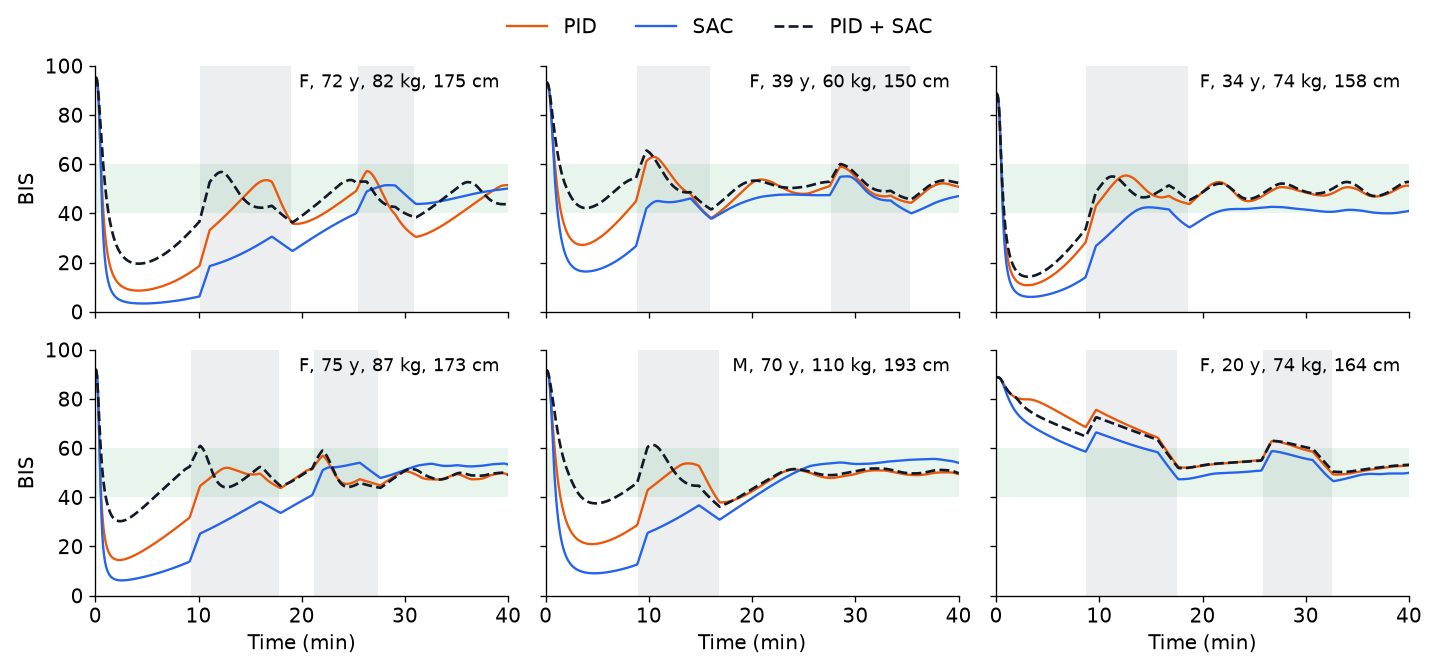
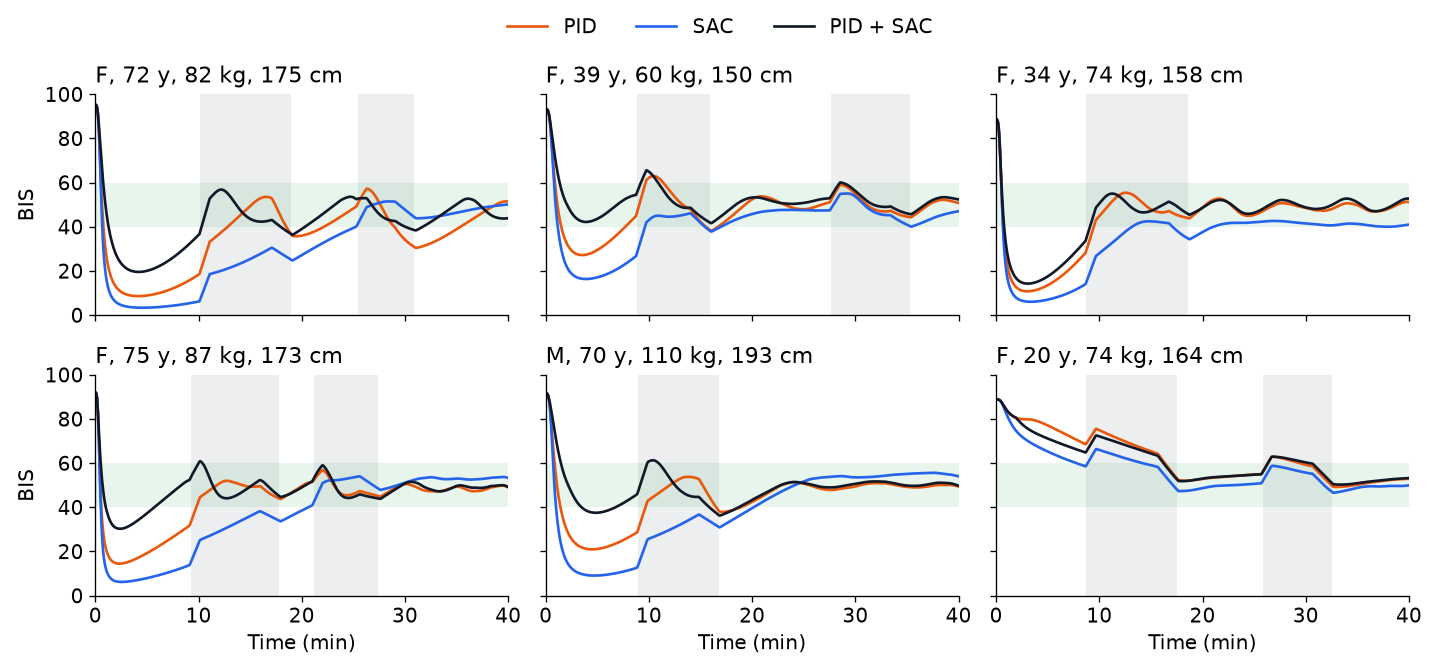
Per-patient difference plot, larger panel labels

diff --git a/benchmark.py b/benchmark.py
@@ -108,17 +108,17 @@ def style(ax):
 
 
 def figure_paired(pp):
-    fig, ax = plt.subplots(figsize=(4.6, 4.4), dpi=150)
-    ax.fill_between([15, 101], [14, 100], [16, 102], color='#9CA3AF', alpha=0.25, lw=0)   # within 1 point
-    ax.plot([15, 101], [15, 101], color='#6B7280', lw=0.8)
+    fig, ax = plt.subplots(figsize=(5.2, 3.8), dpi=150)
+    ax.axhspan(-1, 1, color='#9CA3AF', alpha=0.45, lw=0)
+    ax.axhline(0, color='#374151', lw=0.8)
     for n, mk in (('SAC', 'o'), ('PID + SAC', '^')):
         if n in pp:
-            ax.scatter(pp['PID'], pp[n], s=44, facecolors='none', edgecolors=C[n], lw=1.4, label=n, marker=mk)
+            ax.scatter(pp['PID'], pp[n] - pp['PID'], s=44, facecolors='none', edgecolors=C[n], lw=1.4,
+                       label=n, marker=mk)
     ax.set_xlabel('PID, time in 40-60 (%)', fontsize=13)
-    ax.set_ylabel('RL, time in 40-60 (%)', fontsize=13)
-    ax.set_xticks([20, 40, 60, 80, 100]); ax.set_yticks([20, 40, 60, 80, 100])
-    ax.set_xlim(18, 101); ax.set_ylim(18, 101); style(ax)
-    ax.legend(frameon=False, loc='upper left', fontsize=13, handletextpad=0.2)
+    ax.set_ylabel('Difference from PID (points)', fontsize=13)
+    ax.set_xlim(45, 102); style(ax)
+    ax.legend(frameon=False, loc='lower left', fontsize=12, handletextpad=0.2)
     fig.tight_layout(); fig.savefig('media/paired_patients.png'); plt.close(fig)
 
 
@@ -132,14 +132,13 @@ def figure_traces(models, idx=(0, 3, 8, 11, 19, 26)):
             if k == 0:   # stimulation timing is identical for every controller
                 stim = np.array([s['disturbance'] for s in tr]) > 0.5
                 ax.fill_between(t, 0, 100, where=stim, color='#9CA3AF', alpha=0.18, lw=0)
-            ax.plot(t, [s['bis'] for s in tr], color=C[lab], lw=1.6 if lab == 'PID + SAC' else 1.4,
-                    ls='--' if lab == 'PID + SAC' else '-', label=lab)
+            ax.plot(t, [s['bis'] for s in tr], color=C[lab], lw=1.6, label=lab)
         ax.axhspan(40, 60, color=C_TARGET, alpha=0.1, lw=0)
-        ax.text(0.98, 0.97, describe(pats[i]), transform=ax.transAxes, fontsize=11, va='top', ha='right')
+        ax.text(0.0, 1.03, describe(pats[i]), transform=ax.transAxes, fontsize=13, va='bottom', ha='left')
         ax.set_ylim(0, 100); ax.set_xlim(0, 40); ax.set_xticks([0, 10, 20, 30, 40]); style(ax)
     for ax in axes[:, 0]: ax.set_ylabel('BIS', fontsize=12)
     for ax in axes[1]: ax.set_xlabel('Time (min)', fontsize=12)
-    fig.tight_layout(rect=(0, 0, 1, 0.94))
+    fig.tight_layout(rect=(0, 0, 1, 0.93))
     h, l = axes[0, 0].get_legend_handles_labels()
     fig.legend(h, l, loc='upper center', ncol=3, frameon=False, fontsize=12)
     fig.savefig('media/test_traces.png'); plt.close(fig)

diff --git a/AnesthesiaEnv.py b/AnesthesiaEnv.py
@@ -39,7 +39,7 @@ BIS_DELAY_S = 20.0
 BIS_NOISE_SD = 3.0
 FILTER_ALPHA = 0.3
 DELAY_STEPS = int(BIS_DELAY_S / DT_S)
-BIS_UNSAFE = 25.0                 # below this: deep overdose (burst suppression risk)
+BIS_UNSAFE = 25.0                 # extra penalty below this; a 5-point margin above the BIS < 20 overdose metric
 
 # reward
 TRACK_WIDTH = 10.0
